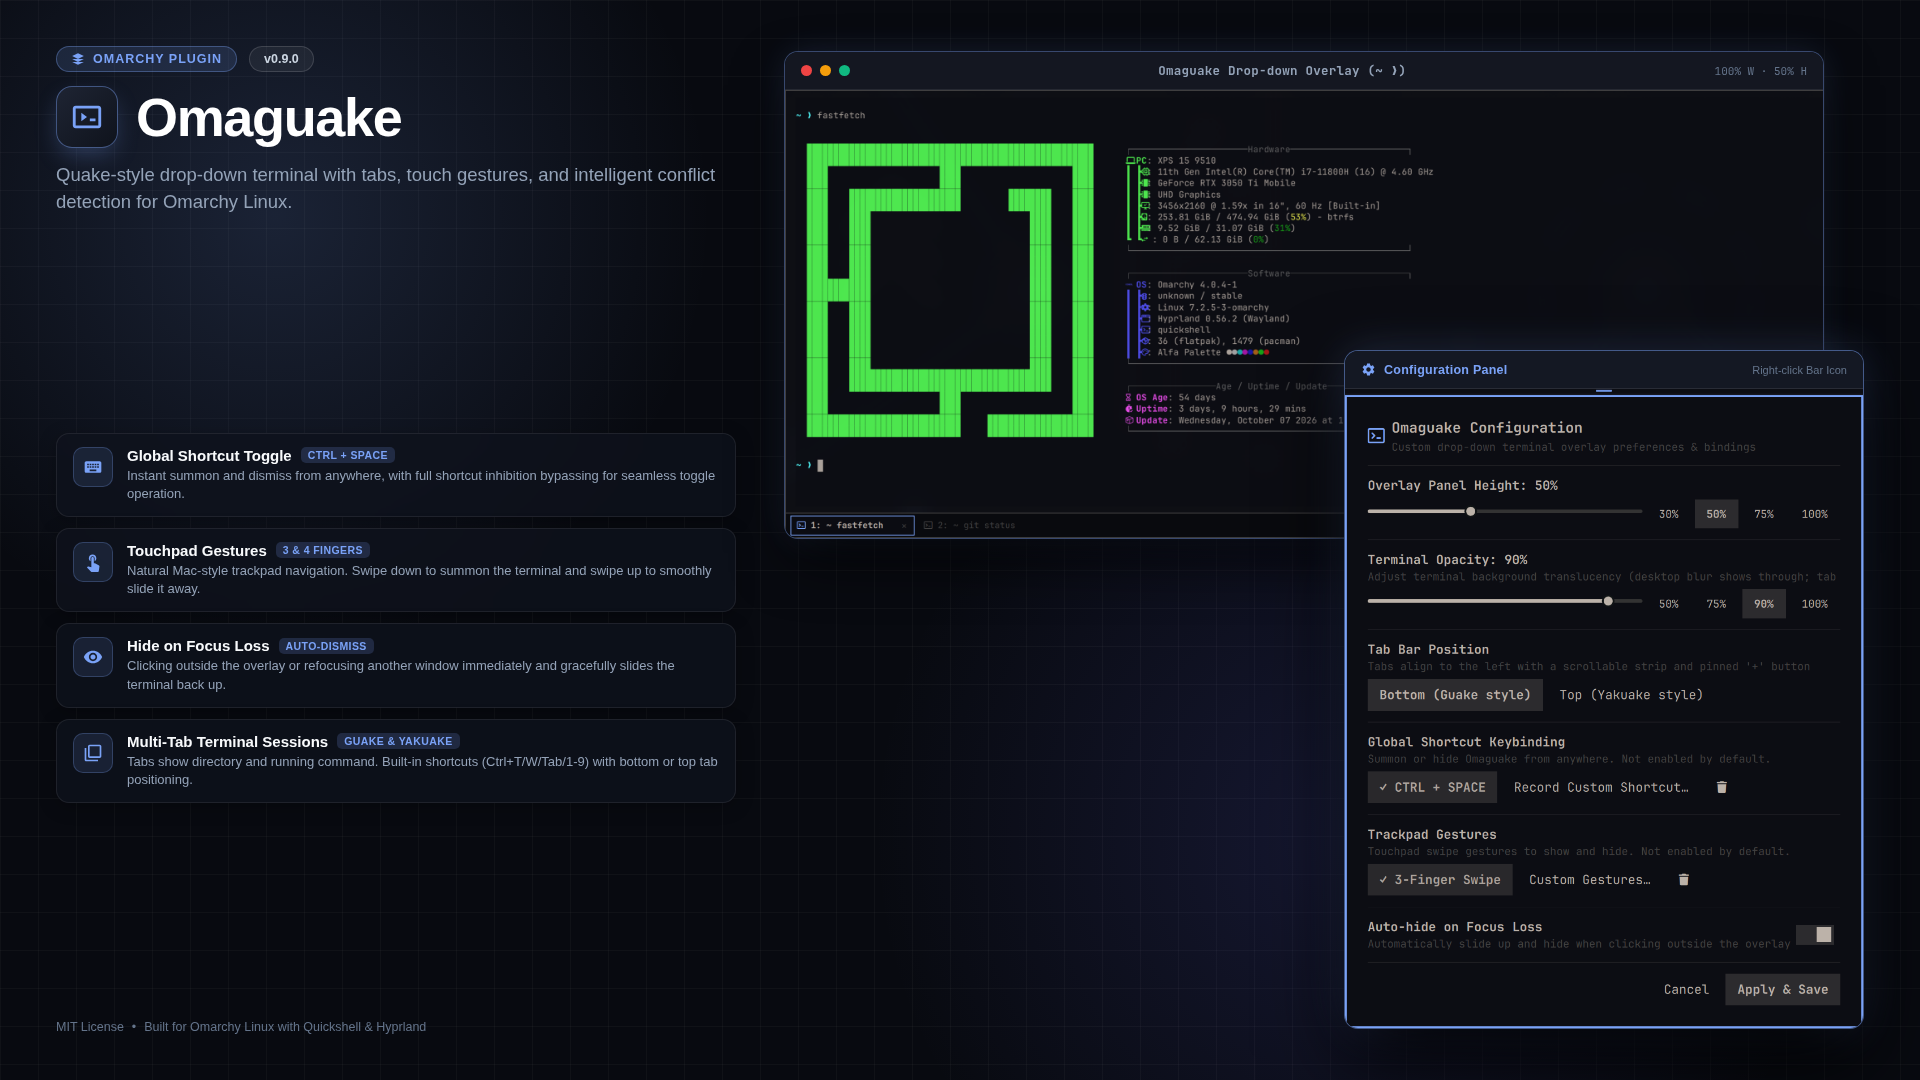
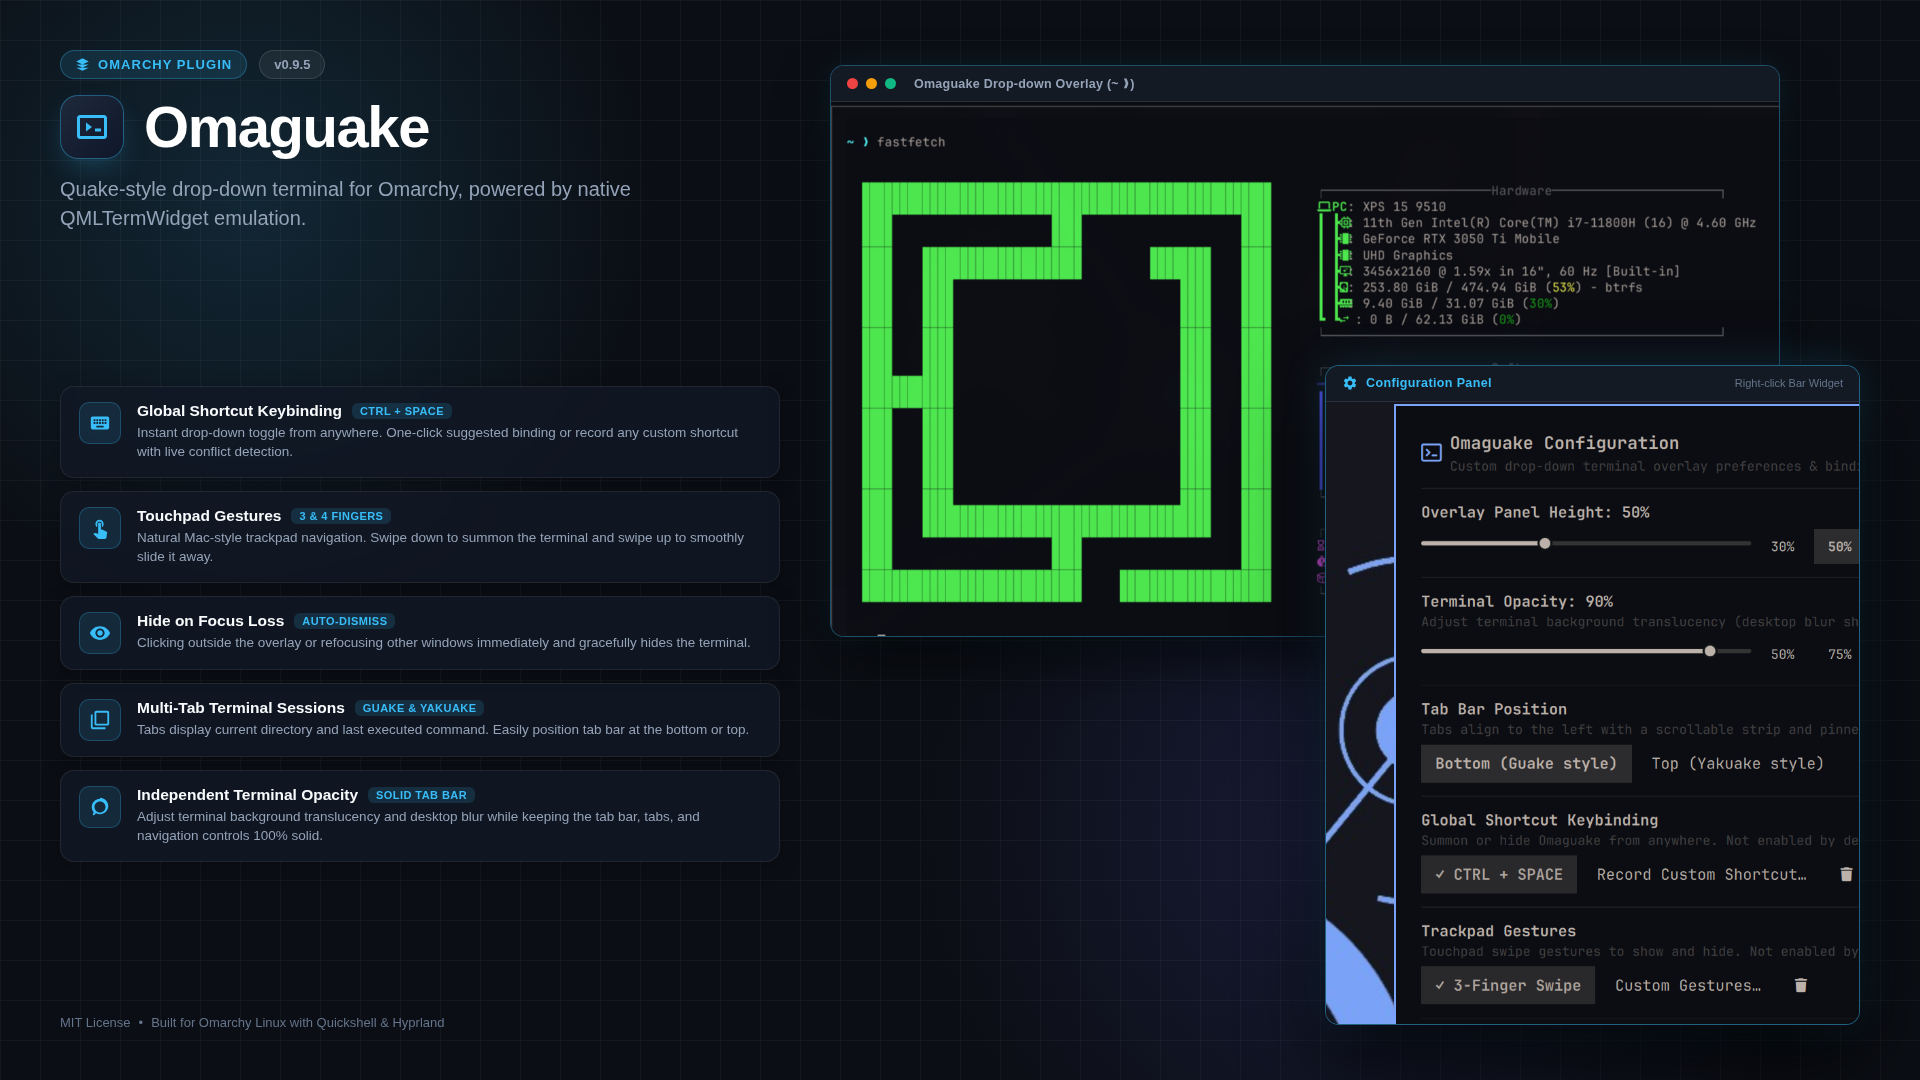
feat: persistent tmux sessions with hidden status bar, auto-restore across shell restarts, and bump to v0.9.5

diff --git a/TerminalView.qml b/TerminalView.qml
@@ -1,6 +1,7 @@
 import QtQuick
 import QtQuick.Controls
 import Quickshell
+import Quickshell.Io
 import qs.Commons
 import qs.Ui
 import "QMLTermWidget"
@@ -46,21 +47,43 @@ Item {
     return ""
   }
 
+  Process {
+    id: paneQueryProc
+    command: [root.pluginDir + "/scripts/session-manager.py", "query", "omaguake_tab_" + (root.tabId || "1")]
+    stdout: StdioCollector {
+      waitForEnd: true
+      onStreamFinished: {
+        var raw = String(text || "").trim()
+        if (raw.length > 0) {
+          try {
+            var data = JSON.parse(raw)
+            if (data) {
+              if (data.cwd) {
+                root.titleUpdated(data.cwd)
+              }
+              if (data.command && data.command !== "bash" && data.command !== "sh" && data.command !== "zsh" && data.command !== "fish" && data.command !== "tmux") {
+                if (!root.lastCommand || root.lastCommand !== data.command) {
+                  root.lastCommand = data.command
+                  root.commandUpdated(data.command)
+                }
+              }
+            }
+          } catch(e) {}
+        }
+      }
+    }
+  }
+
   Timer {
     id: procCheckTimer
-    interval: 250
+    interval: 500
     repeat: true
     running: root.activeTab
     onTriggered: {
-      try {
-        var fg = root.getForegroundProcess()
-        if (fg && fg !== "bash" && fg !== "sh" && fg !== "zsh" && fg !== "fish") {
-          if (!root.lastCommand || root.lastCommand.indexOf(fg) !== 0) {
-            root.lastCommand = fg
-            root.commandUpdated(fg)
-          }
-        }
-      } catch(e) {}
+      if (!paneQueryProc.running) {
+        paneQueryProc.command = [root.pluginDir + "/scripts/session-manager.py", "query", "omaguake_tab_" + (root.tabId || "1")]
+        paneQueryProc.running = true
+      }
     }
   }
 
@@ -165,6 +188,8 @@ Item {
     return false
   }
 
+  property string pluginDir: String(Qt.resolvedUrl(".")).replace("file://", "").replace(/\/$/, "")
+
   QMLTermWidget {
     id: terminal
     anchors.fill: parent
@@ -253,7 +278,7 @@ Item {
 
       if (event.key === Qt.Key_Return || event.key === Qt.Key_Enter) {
         var fg = root.getForegroundProcess()
-        var isShell = (!fg || fg === "bash" || fg === "sh" || fg === "zsh" || fg === "fish")
+        var isShell = (!fg || fg === "bash" || fg === "sh" || fg === "zsh" || fg === "fish" || fg === "tmux")
         if (isShell) {
           var entered = root.typedLine.trim()
           root.typedLine = ""
@@ -279,6 +304,14 @@ Item {
     }
 
     Component.onCompleted: {
+      var wrapperScript = root.pluginDir + "/scripts/tmux-session.sh"
+      var sessionName = "omaguake_tab_" + (root.tabId || "1")
+      if (typeof termSession.setShellProgram === "function") {
+        termSession.setShellProgram(wrapperScript)
+      }
+      if (typeof termSession.setArgs === "function") {
+        termSession.setArgs([sessionName, "attach"])
+      }
       termSession.startShellProgram()
       root.reloadColorScheme(root.schemeName)
       if (root.activeTab) {

diff --git a/Overlay.qml b/Overlay.qml
@@ -166,8 +166,11 @@ Item {
     root.updateTerminalVisibility()
   }
 
-  function createTab() {
-    var newId = nextTabId++
+  function createTab(specifiedId) {
+    var newId = (specifiedId !== undefined && specifiedId !== null) ? Number(specifiedId) : nextTabId++
+    if (newId >= nextTabId) {
+      nextTabId = newId + 1
+    }
     var term = terminalComponent.createObject(terminalArea, {
       tabId: String(newId),
       schemeName: root.currentSchemeName,
@@ -267,12 +270,15 @@ Item {
   function closeTab(index) {
     if (index < 0 || index >= tabs.length) return
     var tabToClose = tabs[index]
-    if (tabToClose && tabToClose.termItem) {
-      try {
-        tabToClose.termItem.visible = false
-        tabToClose.termItem.activeTab = false
-        tabToClose.termItem.destroy()
-      } catch(e) {}
+    if (tabToClose) {
+      Quickshell.execDetached([root.pluginDir + "/scripts/session-manager.py", "kill", "omaguake_tab_" + tabToClose.id])
+      if (tabToClose.termItem) {
+        try {
+          tabToClose.termItem.visible = false
+          tabToClose.termItem.activeTab = false
+          tabToClose.termItem.destroy()
+        } catch(e) {}
+      }
     }
 
     if (tabs.length <= 1) {
@@ -559,8 +565,36 @@ Item {
     root.notifyTabsRetheme()
   }
 
+  Process {
+    id: sessionRestoreProc
+    command: [root.pluginDir + "/scripts/session-manager.py", "list"]
+    stdout: StdioCollector {
+      waitForEnd: true
+      onStreamFinished: {
+        var raw = String(text || "").trim()
+        var restored = false
+        if (raw.length > 0) {
+          try {
+            var list = JSON.parse(raw)
+            if (list && list.length > 0) {
+              for (var i = 0; i < list.length; i++) {
+                var s = list[i]
+                var tid = s.id !== undefined ? s.id : (i + 1)
+                root.createTab(tid)
+              }
+              restored = true
+            }
+          } catch(e) {}
+        }
+        if (!restored && root.tabs.length === 0) {
+          root.createTab()
+        }
+      }
+    }
+  }
+
   Component.onCompleted: {
-    root.createTab()
+    sessionRestoreProc.running = true
     root.reloadTheme()
     root.reloadClipboardBinds()
   }

diff --git a/scripts/session-manager.py b/scripts/session-manager.py
@@ -1,0 +1,118 @@
+#!/usr/bin/env python3
+"""
+Session manager for Omaguake.
+Queries running tmux sessions for active command, cwd, or restores session list.
+"""
+
+import json
+import subprocess
+import sys
+
+SOCKET = "omaguake"
+
+
+def list_sessions():
+    proc = subprocess.run(
+        [
+            "tmux",
+            "-L",
+            SOCKET,
+            "list-panes",
+            "-a",
+            "-F",
+            "#{session_name}|#{pane_current_command}|#{pane_current_path}|#{pane_title}",
+        ],
+        capture_output=True,
+        text=True,
+    )
+    if proc.returncode != 0:
+        print(json.dumps([]))
+        return
+
+    sessions = []
+    seen = set()
+    for line in proc.stdout.splitlines():
+        parts = line.strip().split("|")
+        if len(parts) >= 3:
+            s_name = parts[0]
+            if s_name in seen:
+                continue
+            seen.add(s_name)
+            cmd = parts[1]
+            cwd = parts[2]
+            title = parts[3] if len(parts) > 3 else ""
+
+            tab_id = s_name.replace("omaguake_tab_", "") if s_name.startswith("omaguake_tab_") else s_name
+            try:
+                tab_id_int = int(tab_id)
+            except ValueError:
+                tab_id_int = tab_id
+
+            sessions.append({
+                "id": tab_id_int,
+                "session_name": s_name,
+                "command": cmd,
+                "cwd": cwd,
+                "title": title
+            })
+
+    # Sort numerically if integer IDs
+    try:
+        sessions.sort(key=lambda x: int(x["id"]))
+    except Exception:
+        pass
+
+    print(json.dumps(sessions))
+
+
+def query_session(session_name):
+    if not session_name.startswith("omaguake_tab_"):
+        session_name = f"omaguake_tab_{session_name}"
+    proc = subprocess.run(
+        [
+            "tmux",
+            "-L",
+            SOCKET,
+            "list-panes",
+            "-t",
+            session_name,
+            "-F",
+            "#{pane_current_command}|#{pane_current_path}|#{pane_title}",
+        ],
+        capture_output=True,
+        text=True,
+    )
+    if proc.returncode != 0 or not proc.stdout.strip():
+        print(json.dumps({}))
+        return
+
+    first_line = proc.stdout.splitlines()[0]
+    parts = first_line.strip().split("|")
+    cmd = parts[0] if len(parts) > 0 else ""
+    cwd = parts[1] if len(parts) > 1 else ""
+    title = parts[2] if len(parts) > 2 else ""
+
+    print(json.dumps({
+        "command": cmd,
+        "cwd": cwd,
+        "title": title
+    }))
+
+
+def kill_session(session_name):
+    if not session_name.startswith("omaguake_tab_"):
+        session_name = f"omaguake_tab_{session_name}"
+    subprocess.run(["tmux", "-L", SOCKET, "kill-session", "-t", session_name], capture_output=True)
+
+
+def main():
+    if len(sys.argv) < 2 or sys.argv[1] == "list":
+        list_sessions()
+    elif sys.argv[1] == "query" and len(sys.argv) > 2:
+        query_session(sys.argv[2])
+    elif sys.argv[1] == "kill" and len(sys.argv) > 2:
+        kill_session(sys.argv[2])
+
+
+if __name__ == "__main__":
+    main()

diff --git a/scripts/sync-theme.py b/scripts/sync-theme.py
@@ -244,6 +244,22 @@ def emit_live_osc_to_ttys(colors_toml):
         except Exception:
             pass
 
+    # Also include any active panes managed by Omaguake tmux server
+    try:
+        tmux_proc = subprocess.run(
+            ["tmux", "-L", "omaguake", "list-panes", "-a", "-F", "#{pane_tty}"],
+            capture_output=True,
+            text=True,
+            timeout=1
+        )
+        if tmux_proc.returncode == 0:
+            for line in tmux_proc.stdout.splitlines():
+                t = line.strip()
+                if t.startswith("/dev/pts/"):
+                    ttys.add(t)
+    except Exception:
+        pass
+
     # Open with non-blocking mode to avoid hangs on blocked or sleeping PTYs
     for tty in ttys:
         try:
